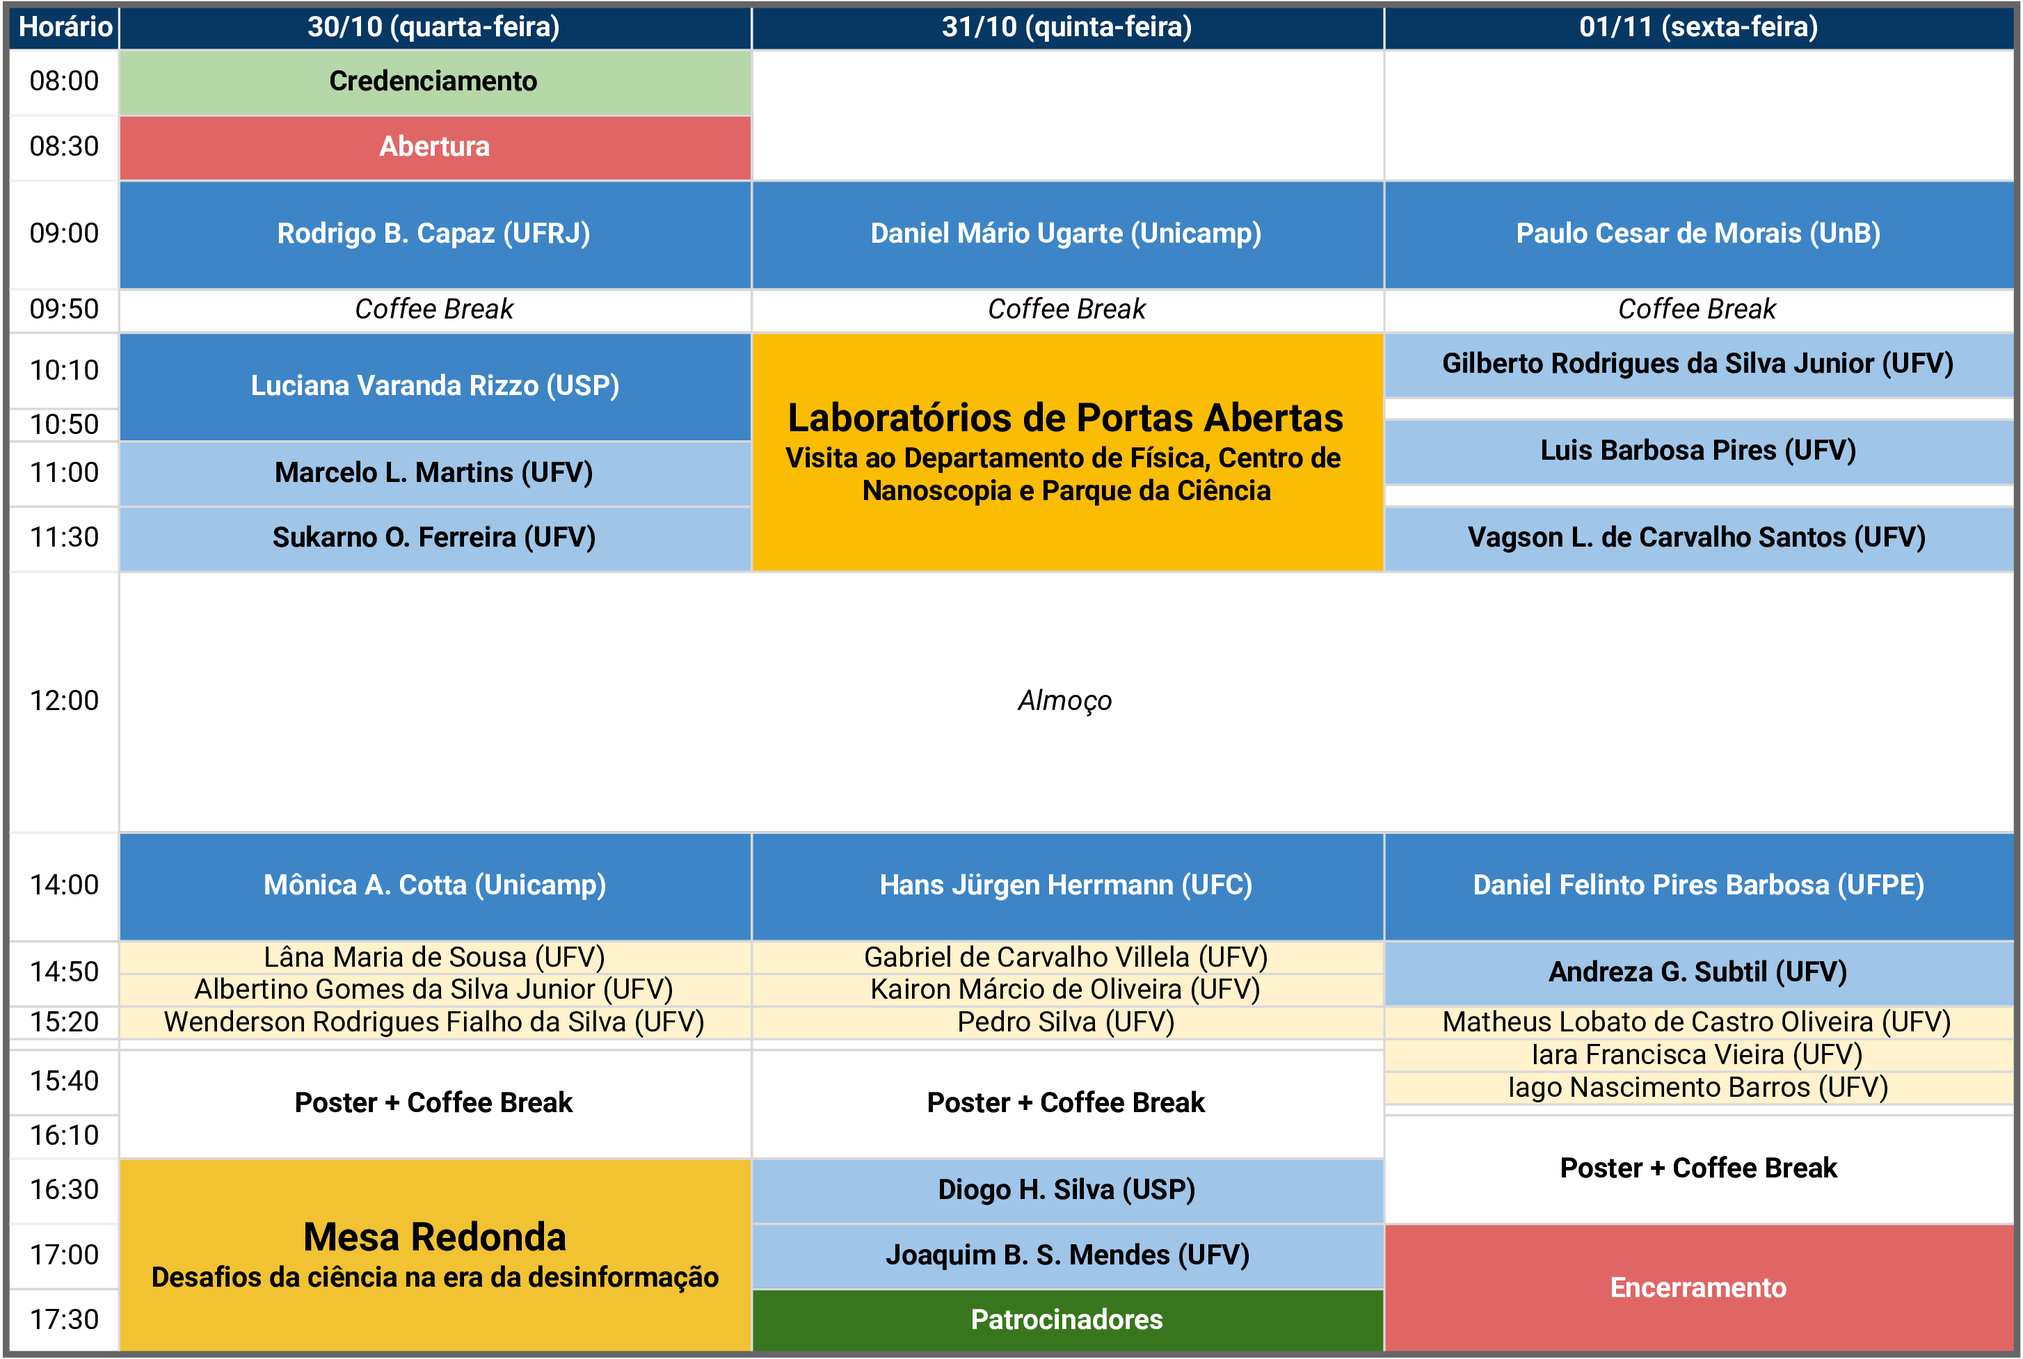
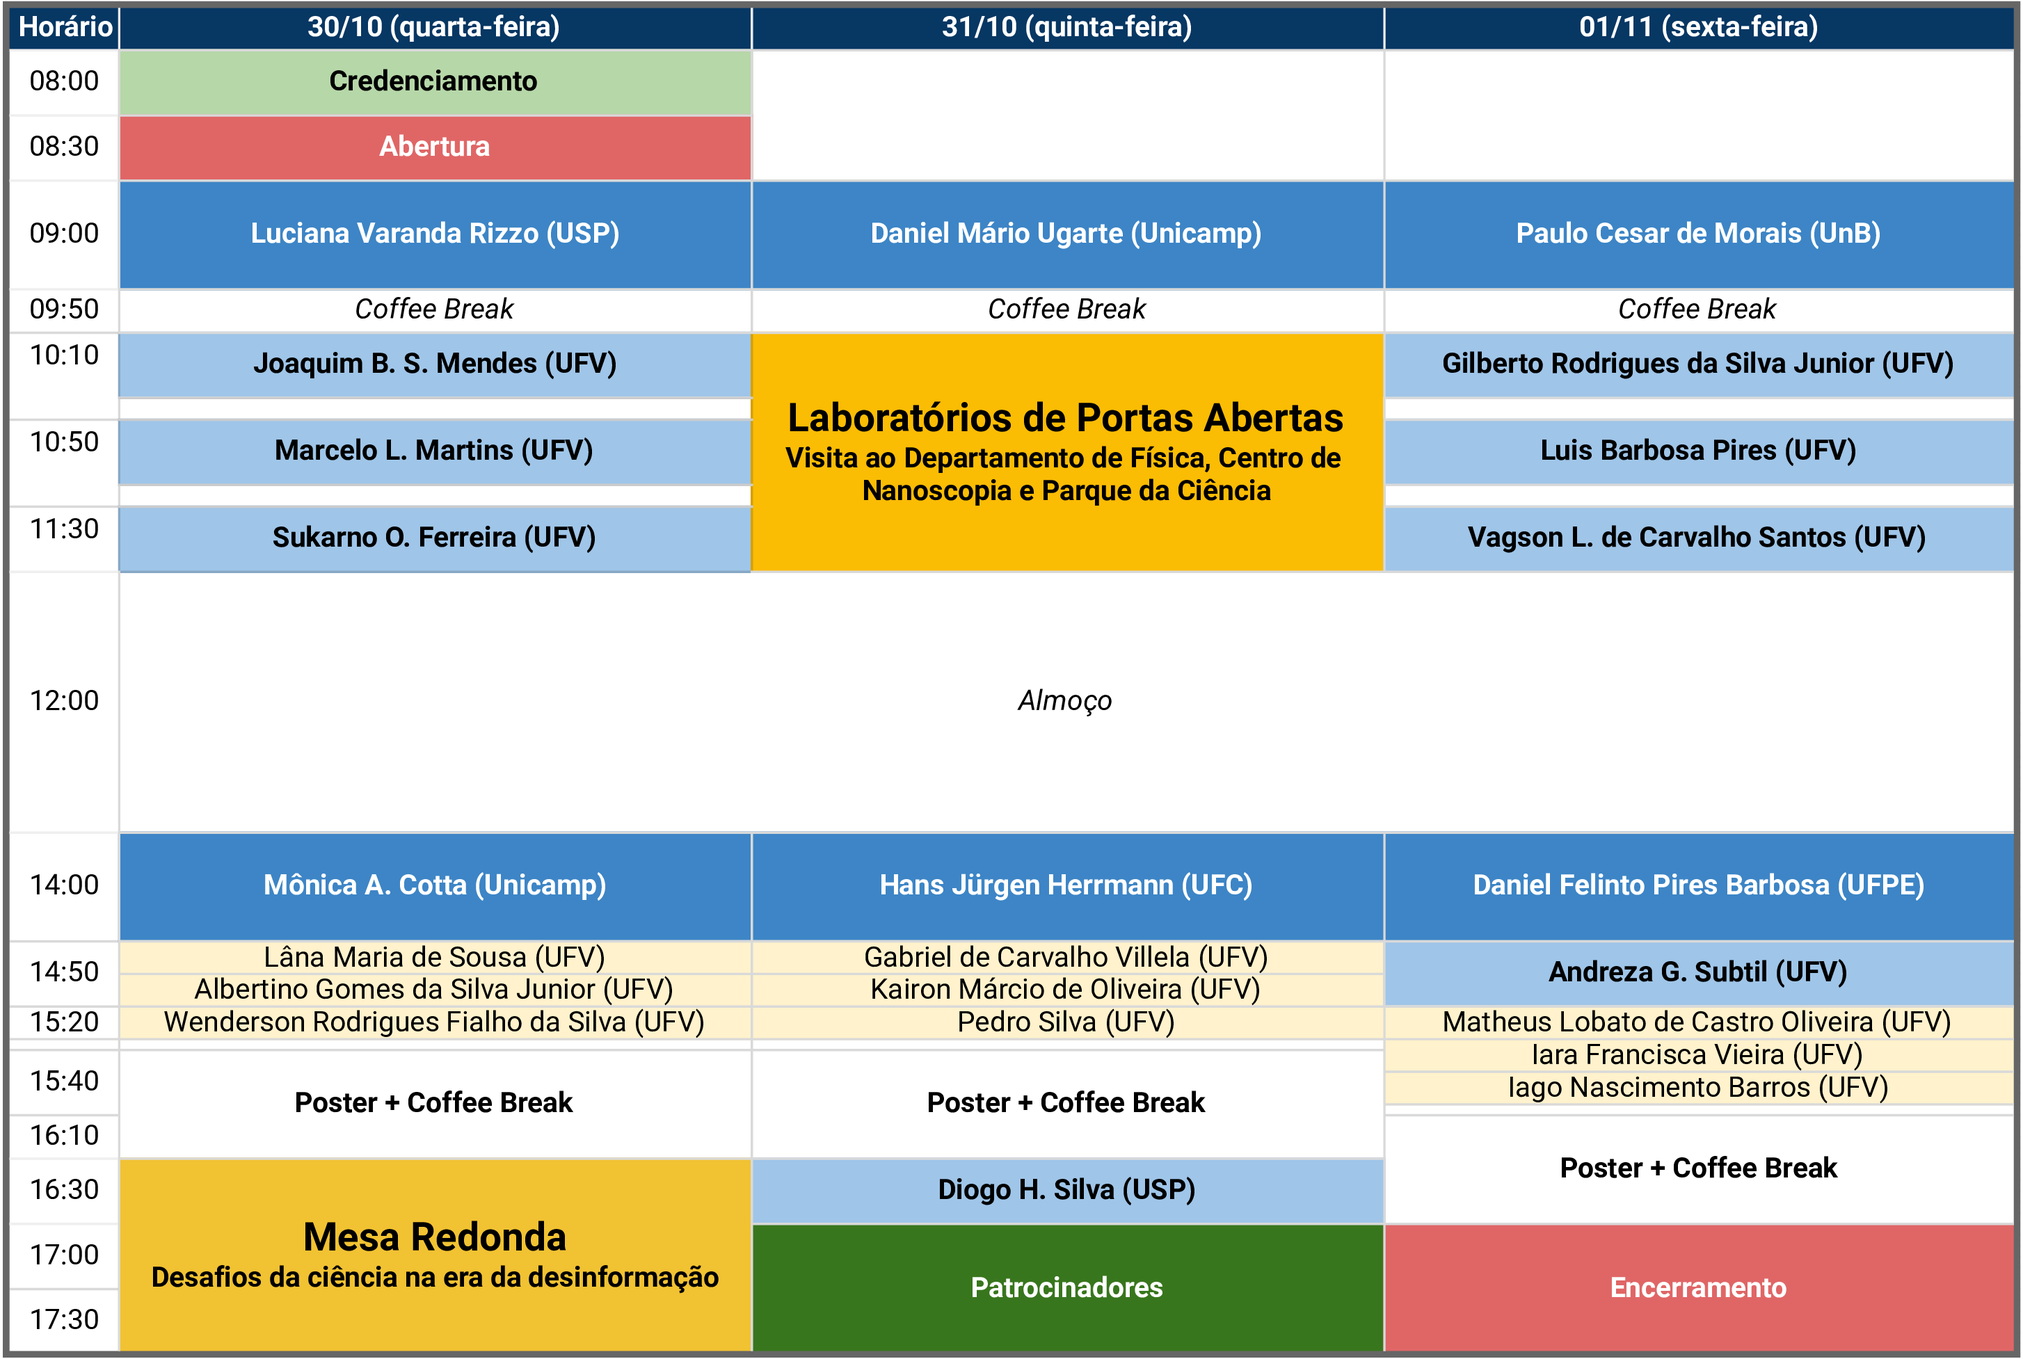
update ufv2024 book

Changed region(s): [[0.0, 0.2185, 0.3714, 0.4058], [0.3714, 0.8741, 0.6809, 0.999], [0.1238, 0.1561, 0.3095, 0.1873]]

diff --git a/ufv2024/index.html b/ufv2024/index.html
@@ -48,14 +48,15 @@
 </ul></li>
 <li><a href="#convidados-externos">Convidados Externos</a>
 <ul>
-<li><a href="#ce1-01-as-instalações-abertas-e-a-pesquisa-no-laboratório-nacional-de-nanotecnologia-rodrigo-b.-capaz">CE1-01 – As instalações abertas e a pesquisa no Laboratório Nacional de Nanotecnologia <strong>(Rodrigo B. Capaz)</strong></a></li>
+<li><a href="#ce1-01-cancelado-as-instalações-abertas-e-a-pesquisa-no-laboratório-nacional-de-nanotecnologia-rodrigo-b.-capaz">CE1-01 – [Cancelado] As instalações abertas e a pesquisa no Laboratório Nacional de Nanotecnologia <strong>(Rodrigo B. Capaz)</strong></a></li>
 <li><a href="#ce1-02-está-no-ar-a-física-dos-aerossóis-atmosféricos-luciana-varanda-rizzo">CE1-02 – Está no ar: a física dos aerossóis atmosféricos <strong>(Luciana Varanda Rizzo)</strong></a></li>
 <li><a href="#ce1-03-adesão-bacteriana-e-formação-de-biofilmes-o-que-podemos-aprender-modelando-materiais-e-interfaces-mônica-a.-cotta">CE1-03 – Adesão bacteriana e formação de biofilmes: o que podemos aprender modelando materiais e interfaces? <strong>(Mônica A. Cotta)</strong></a></li>
 </ul></li>
 <li><a href="#convidados-internos">Convidados Internos</a>
 <ul>
-<li><a href="#ci1-01-o-fazedor-de-montículos-marcelo-lobato-martins">CI1-01 – O fazedor de montículos <strong>(Marcelo Lobato Martins)</strong></a></li>
-<li><a href="#ci1-02-crescimento-de-heteroestruturas-e-materiais-2d-por-epitaxia-de-feixe-molecular-sukarno-olavo-ferreira">CI1-02 – Crescimento de heteroestruturas e materiais 2D por epitaxia de feixe molecular <strong>(Sukarno Olavo Ferreira)</strong></a></li>
+<li><a href="#ci1-01-laboratório-mineiro-de-magnetismo-e-materiais-magnéticos-multifuncionais-joaquim-bonfim-santos-mendes">CI1-01 – Laboratório mineiro de magnetismo e materiais magnéticos multifuncionais <strong>(Joaquim Bonfim Santos Mendes)</strong></a></li>
+<li><a href="#ci1-02-o-fazedor-de-montículos-marcelo-lobato-martins">CI1-02 – O fazedor de montículos <strong>(Marcelo Lobato Martins)</strong></a></li>
+<li><a href="#ci1-03-crescimento-de-heteroestruturas-e-materiais-2d-por-epitaxia-de-feixe-molecular-sukarno-olavo-ferreira">CI1-03 – Crescimento de heteroestruturas e materiais 2D por epitaxia de feixe molecular <strong>(Sukarno Olavo Ferreira)</strong></a></li>
 </ul></li>
 <li><a href="#apresentações-orais">Apresentações orais</a>
 <ul>
@@ -94,7 +95,6 @@
 <li><a href="#convidados-internos-1">Convidados Internos</a>
 <ul>
 <li><a href="#ci2-01-um-estudo-da-localização-em-espalhamentos-epidêmicos-diogo-henrique-da-silva">CI2-01 – Um estudo da localização em espalhamentos epidêmicos <strong>(Diogo Henrique da Silva)</strong></a></li>
-<li><a href="#ci2-02-laboratório-mineiro-de-magnetismo-e-materiais-magnéticos-multifuncionais-joaquim-bonfim-santos-mendes">CI2-02 – Laboratório mineiro de magnetismo e materiais magnéticos multifuncionais <strong>(Joaquim Bonfim Santos Mendes)</strong></a></li>
 </ul></li>
 <li><a href="#apresentações-orais-1">Apresentações orais</a>
 <ul>
@@ -172,10 +172,10 @@
 <div style="text-align: justify">
 <p>Num brevíssimo resumo, apresentaremos uma visão simples do processo científico e seus métodos, para nortear o debate. Alguns aspectos de desinformação em áreas como saúde, história, ciências sociais, e especialmente Física serão apresentados. Por fim, abordaremos possíveis causas do espalhamento e “fé” na desinformação dentro da sociedade, de modo a iniciar o debate.</p>
 <p><strong>Mediador:</strong> Leonardo A. M. Souza (UFV-CAF)</p>
-<strong>Membros:</strong> Luciana Varanda Rizzo (USP), Mônica A. Cotta (Unicamp), Rodrigo B. Capaz (UFRJ)
+<strong>Membros:</strong> Luciana Varanda Rizzo (USP), Mônica A. Cotta (Unicamp)
 </div>
 <h3 id="convidados-externos">Convidados Externos</h3>
-<h4 id="ce1-01-as-instalações-abertas-e-a-pesquisa-no-laboratório-nacional-de-nanotecnologia-rodrigo-b.-capaz">CE1-01 – As instalações abertas e a pesquisa no Laboratório Nacional de Nanotecnologia <strong>(Rodrigo B. Capaz)</strong></h4>
+<h4 id="ce1-01-cancelado-as-instalações-abertas-e-a-pesquisa-no-laboratório-nacional-de-nanotecnologia-rodrigo-b.-capaz">CE1-01 – [Cancelado] As instalações abertas e a pesquisa no Laboratório Nacional de Nanotecnologia <strong>(Rodrigo B. Capaz)</strong></h4>
 <blockquote>
 <p>Rodrigo B. Capaz, Universidade Federal do Rio de Janeiro (UFRJ) | rodrigo.capaz@lnnano.cnpem.br</p>
 </blockquote>
@@ -197,14 +197,31 @@ Aerossóis são partículas sólidas ou líquidas em suspensão na atmosfera, co
 A sinalização e a atividade de células bacterianas na nanobiointerface são informações importantes para o desenvolvimento de novas gerações de ferramentas de diagnóstico inteligentes ou para encontrar novos alvos para a prevenção de infecções relacionadas a biofilmes. Nos últimos anos, estudamos extensivamente o ciclo de vida bacteriano da <em>Xylella fastidiosa</em>, um patógeno de plantas economicamente importante que afeta culturas em todo o mundo. A patogenicidade desse microorganismo está relacionada a biofilmes formados nos vasos do xilema e ao estresse hídrico que eles criam, o que tem um grande impacto na produtividade agrícola. Neste seminário, discutiremos diferentes plataformas de materiais para entender melhor a interação da <em>X. fastidiosa</em> com superfícies e os mecanismos-chave envolvidos na formação do biofilme.
 </div>
 <h3 id="convidados-internos">Convidados Internos</h3>
-<h4 id="ci1-01-o-fazedor-de-montículos-marcelo-lobato-martins">CI1-01 – O fazedor de montículos <strong>(Marcelo Lobato Martins)</strong></h4>
+<h4 id="ci1-01-laboratório-mineiro-de-magnetismo-e-materiais-magnéticos-multifuncionais-joaquim-bonfim-santos-mendes">CI1-01 – Laboratório mineiro de magnetismo e materiais magnéticos multifuncionais <strong>(Joaquim Bonfim Santos Mendes)</strong></h4>
+<blockquote>
+<p>Joaquim Bonfim Santos Mendes, Universidade Federal de Viçosa (UFV) | joaquim.mendes@ufv.br</p>
+</blockquote>
+<div style="text-align: justify">
+<p>Spintrônica e Nanomagnetismo constituem áreas de pesquisa, desenvolvimento e inovação conectadas e responsáveis por avanços na tecnologia e no desenvolvimento científico de áreas como: microeletrônica, ciência de dados, bioengenharia, física médica, telecomunicações, computação e inteligência artificial. As fronteiras do conhecimento nestes campos envolvem processamento de sinais que ocorrem nas escalas temporal ultrarrápida e em dispositivos na escala nanométrica. Portanto, os desafios científicos e tecnológicos podem ser resumidos em duas frentes: (i) Pesquisar e desenvolver materiais avançados, que devido às dimensões reduzidas, exibem fenômenos que só podem ser explicados com auxílio da mecânica quântica, e (ii) Pesquisar e descobrir fenômenos que só se manifestam devido às propriedades únicas desses materiais [1-5]; (iii) desenvolvimento de instrumentação científica e sensores para detecção de agentes de interesse relacionados à segurança alimentar, saúde pública e na agroindústria [6-9]. Pretendemos desenvolver atividades na fronteira do conhecimento, em particular estudaremos propriedades de spin que se manifestam majoritariamente em estruturas bidimensionais, sejam elas camadas atômicas, ou interfaces que se formam em heteroestruturas. A quebra de simetria de translação, que é uma propriedade intrínseca das heteroestruturas, permite que vários fenômenos de interesse se manifestem, tais como: sistemas eletrônicos 2D com forte interação spin-órbita, materiais quânticos e topológicos, materiais magneto-elétricos, óxidos funcionais, etc. Este laboratório pretende unir grupos de pesquisa do estado Minas Gerais que isoladamente desenvolvem atividades nestes temas, para que de maneira sinérgica, unam as suas expertises individuais com o objetivo claro de se posicionar competitivamente no cenário nacional e internacional. Para nosso conhecimento, este será o primeiro laboratório desta natureza no interior do estado de Minas Gerais. A intenção é desenvolver atividades coordenadas em P,D&amp;I agregando as técnicas dos diversos laboratórios envolvidos, aproveitando as experiências dos seus membros para favorecer a formação qualificada de jovens pesquisadores e aumentar o impacto de nossas atividades de pesquisa de maneira e induzir o desenvolvimento de aplicações tecnológicas inovadoras.</p>
+<p>As atividades de pesquisa são apoiadas pelas agências de fomento públicas CAPES, FINEP, CNPq/INCT de Spintrônica e Nanoestruturas Magnéticas Avançadas (INCT-SpinNanoMag), FAPEMIG - Rede de Pesquisa em Materiais 2D e Rede de Nanomagnetismo.</p>
+<p>[1] MENDES, J. B. S. et al., Unveiling the spin-to-charge current conversion signal in the topological insulator by means of spin pumping experiments. Physical Review Materials, 5, 024206 (2021).</p>
+<p>[2] MENDES, J. B. S. et al., Efficient spin-to-charge interconversion in Weyl semimetal TaP at room temperature. Advanced Materials Interfaces 9 (36), 2201716 (2022).</p>
+<p>[3] Gomes da Silva, E. et al. Surface-state mediated spin-to-charge conversion in Sb films via bilateral spin current injection. Appl. Phys. Lett. 123, 202402 (2023).</p>
+<p>[4] SANTOS, E. et al. Inverse Orbital Torque via Spin-Orbital Intertwined States. Phys. Rev. Applied 19, 014069 (2023).</p>
+<p>[5] SANTOS, E. et al. Bulk and Interface Effects Based on Rashba-like States in Ti and Ru Nanoscale-Thick Films: Implications for Orbital-Charge Conversion in Spintronic Devices. ACS Appl. Nano Mater (2024).</p>
+<p>[6] SILVA, W. R. F. et al. A biosensor based on magnetoelastic waves for detection of antibodies in human plasma for COVID-19 serodiagnosis. Biosensors and Bioelectronics 261, 116456 (2024).</p>
+<p>[7] SILVA, W. R. F.; CUNHA, R.; MENDES, J. B. S. Development of an integrated device based on the gain/phase detector and Arduino platform for measuring magnetoelastic resonance. Measurement, 115819 (2024).</p>
+<p>[8] SILVA, W. R. F.; CUNHA, R.; MENDES, J. B. S. (2024) (Pedido/Patente: BR 10 2024 008915-4).</p>
+[9] SILVA, W. R. F.; CUNHA, R.; MENDES, J. B. S. (2024) (Pedido/Patente: BR 51 2024 000754-7).
+</div>
+<h4 id="ci1-02-o-fazedor-de-montículos-marcelo-lobato-martins">CI1-02 – O fazedor de montículos <strong>(Marcelo Lobato Martins)</strong></h4>
 <blockquote>
 <p>Marcelo Lobato Martins, Universidade Federal de Viçosa (UFV) | mmartins@ufv.br</p>
 </blockquote>
 <div style="text-align: justify">
 No passado longínquo a humanidade cozia barro fofo ou lascava pedras e ossos para construir seus artefatos. Muitos milênios depois, nossos artefatos mais avançados têm componentes moldados em dimensões moleculares. Fabricar nessa escala exige dominar a arte de crescer montículos em ateliês apropriados. Um desafio especial, considerando-se a engenharia de tecidos, é crescer estruturas ramificadas inorgânicas similares àquelas geradas na morfogênese biológica. Nesta apresentação discutiremos o potencial dos passeios aleatórios com ramificação e aniquilação para fabricar morfologias ramificadas.
 </div>
-<h4 id="ci1-02-crescimento-de-heteroestruturas-e-materiais-2d-por-epitaxia-de-feixe-molecular-sukarno-olavo-ferreira">CI1-02 – Crescimento de heteroestruturas e materiais 2D por epitaxia de feixe molecular <strong>(Sukarno Olavo Ferreira)</strong></h4>
+<h4 id="ci1-03-crescimento-de-heteroestruturas-e-materiais-2d-por-epitaxia-de-feixe-molecular-sukarno-olavo-ferreira">CI1-03 – Crescimento de heteroestruturas e materiais 2D por epitaxia de feixe molecular <strong>(Sukarno Olavo Ferreira)</strong></h4>
 <blockquote>
 <p>Sukarno Olavo Ferreira, Universidade Federal de Viçosa (UFV) | sukarno@ufv.br</p>
 </blockquote>
@@ -373,23 +390,6 @@ Um rolamento é um sistema de esferas (ou discos) em contato. Em um rolamento po
 </blockquote>
 <div style="text-align: justify">
 Uma diversidade de epidemias se propagam dentro de comunidades e têm encontrado condições favoráveis para atravessar fronteiras, ganhando um aspecto global. Através da modelagem de espalhamentos epidêmicos, buscamos estudar os aspectos que tornam possível esse fenômeno. Neste seminário, apresentamos um estudo voltado para localização e seus efeitos no espalhamento epidêmico, explorando abordagens teóricas e métodos computacionais.
-</div>
-<h4 id="ci2-02-laboratório-mineiro-de-magnetismo-e-materiais-magnéticos-multifuncionais-joaquim-bonfim-santos-mendes">CI2-02 – Laboratório mineiro de magnetismo e materiais magnéticos multifuncionais <strong>(Joaquim Bonfim Santos Mendes)</strong></h4>
-<blockquote>
-<p>Joaquim Bonfim Santos Mendes, Universidade Federal de Viçosa (UFV) | joaquim.mendes@ufv.br</p>
-</blockquote>
-<div style="text-align: justify">
-<p>Spintrônica e Nanomagnetismo constituem áreas de pesquisa, desenvolvimento e inovação conectadas e responsáveis por avanços na tecnologia e no desenvolvimento científico de áreas como: microeletrônica, ciência de dados, bioengenharia, física médica, telecomunicações, computação e inteligência artificial. As fronteiras do conhecimento nestes campos envolvem processamento de sinais que ocorrem nas escalas temporal ultrarrápida e em dispositivos na escala nanométrica. Portanto, os desafios científicos e tecnológicos podem ser resumidos em duas frentes: (i) Pesquisar e desenvolver materiais avançados, que devido às dimensões reduzidas, exibem fenômenos que só podem ser explicados com auxílio da mecânica quântica, e (ii) Pesquisar e descobrir fenômenos que só se manifestam devido às propriedades únicas desses materiais [1-5]; (iii) desenvolvimento de instrumentação científica e sensores para detecção de agentes de interesse relacionados à segurança alimentar, saúde pública e na agroindústria [6-9]. Pretendemos desenvolver atividades na fronteira do conhecimento, em particular estudaremos propriedades de spin que se manifestam majoritariamente em estruturas bidimensionais, sejam elas camadas atômicas, ou interfaces que se formam em heteroestruturas. A quebra de simetria de translação, que é uma propriedade intrínseca das heteroestruturas, permite que vários fenômenos de interesse se manifestem, tais como: sistemas eletrônicos 2D com forte interação spin-órbita, materiais quânticos e topológicos, materiais magneto-elétricos, óxidos funcionais, etc. Este laboratório pretende unir grupos de pesquisa do estado Minas Gerais que isoladamente desenvolvem atividades nestes temas, para que de maneira sinérgica, unam as suas expertises individuais com o objetivo claro de se posicionar competitivamente no cenário nacional e internacional. Para nosso conhecimento, este será o primeiro laboratório desta natureza no interior do estado de Minas Gerais. A intenção é desenvolver atividades coordenadas em P,D&amp;I agregando as técnicas dos diversos laboratórios envolvidos, aproveitando as experiências dos seus membros para favorecer a formação qualificada de jovens pesquisadores e aumentar o impacto de nossas atividades de pesquisa de maneira e induzir o desenvolvimento de aplicações tecnológicas inovadoras.</p>
-<p>As atividades de pesquisa são apoiadas pelas agências de fomento públicas CAPES, FINEP, CNPq/INCT de Spintrônica e Nanoestruturas Magnéticas Avançadas (INCT-SpinNanoMag), FAPEMIG - Rede de Pesquisa em Materiais 2D e Rede de Nanomagnetismo.</p>
-<p>[1] MENDES, J. B. S. et al., Unveiling the spin-to-charge current conversion signal in the topological insulator by means of spin pumping experiments. Physical Review Materials, 5, 024206 (2021).</p>
-<p>[2] MENDES, J. B. S. et al., Efficient spin-to-charge interconversion in Weyl semimetal TaP at room temperature. Advanced Materials Interfaces 9 (36), 2201716 (2022).</p>
-<p>[3] Gomes da Silva, E. et al. Surface-state mediated spin-to-charge conversion in Sb films via bilateral spin current injection. Appl. Phys. Lett. 123, 202402 (2023).</p>
-<p>[4] SANTOS, E. et al. Inverse Orbital Torque via Spin-Orbital Intertwined States. Phys. Rev. Applied 19, 014069 (2023).</p>
-<p>[5] SANTOS, E. et al. Bulk and Interface Effects Based on Rashba-like States in Ti and Ru Nanoscale-Thick Films: Implications for Orbital-Charge Conversion in Spintronic Devices. ACS Appl. Nano Mater (2024).</p>
-<p>[6] SILVA, W. R. F. et al. A biosensor based on magnetoelastic waves for detection of antibodies in human plasma for COVID-19 serodiagnosis. Biosensors and Bioelectronics 261, 116456 (2024).</p>
-<p>[7] SILVA, W. R. F.; CUNHA, R.; MENDES, J. B. S. Development of an integrated device based on the gain/phase detector and Arduino platform for measuring magnetoelastic resonance. Measurement, 115819 (2024).</p>
-<p>[8] SILVA, W. R. F.; CUNHA, R.; MENDES, J. B. S. (2024) (Pedido/Patente: BR 10 2024 008915-4).</p>
-[9] SILVA, W. R. F.; CUNHA, R.; MENDES, J. B. S. (2024) (Pedido/Patente: BR 51 2024 000754-7).
 </div>
 <h3 id="apresentações-orais-1">Apresentações orais</h3>
 <h4 id="a2-01-exploring-antiferromagnetic-resonance-through-self-consistent-harmonic-approximation-gabriel-de-carvalho-villela">A2-01 – Exploring Antiferromagnetic Resonance through Self-Consistent Harmonic Approximation <strong>(Gabriel de Carvalho Villela)</strong></h4>
